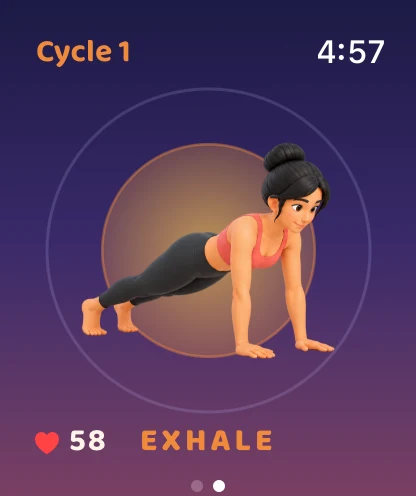
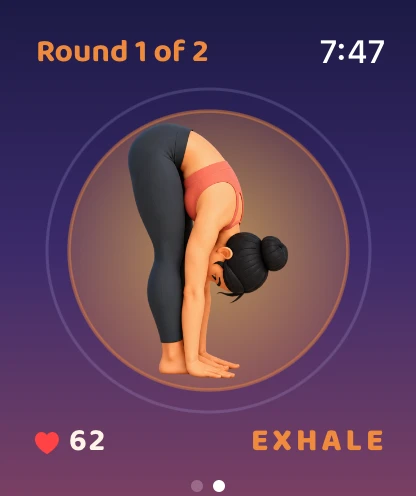
Watch card: fresh simulator screenshot of the practice screen
Claude-Session: https://claude.ai/code/session_01ShqDQatFqca7N7iU5mKqBC

diff --git a/index.html b/index.html
@@ -18,7 +18,7 @@
   <link rel="preconnect" href="https://fonts.googleapis.com">
   <link rel="preconnect" href="https://fonts.gstatic.com" crossorigin>
   <link href="https://fonts.googleapis.com/css2?family=Baloo+2:wght@500;600;700;800&family=Inter:wght@400;500;600;700&display=swap" rel="stylesheet">
-  <link rel="stylesheet" href="styles.css?v=20261114084317">
+  <link rel="stylesheet" href="styles.css?v=20261114084831">
 </head>
 <body>
 
@@ -160,7 +160,7 @@
           </div>
           <div class="watch">
             <div class="watch-crown"></div><div class="watch-btn"></div>
-            <div class="watch-screen"><img src="assets/watch-practice.webp" alt="Surya Flow on Apple Watch: Cycle 1, plank pose in the breathing circle, heart rate 58, Exhale" width="416" height="496" loading="lazy"></div>
+            <div class="watch-screen"><img src="assets/watch-practice.webp?v=2" alt="Surya Flow on Apple Watch: Round 1 of 2, forward bend in the breathing circle, heart rate 62, Exhale" width="416" height="496" loading="lazy"></div>
           </div>
         </article>
       </div>
@@ -241,6 +241,6 @@
   </div>
 </footer>
 
-<script src="script.js?v=20261114084317"></script>
+<script src="script.js?v=20261114084831"></script>
 </body>
 </html>

diff --git a/404.html b/404.html
@@ -12,7 +12,7 @@
   <link rel="preconnect" href="https://fonts.googleapis.com">
   <link rel="preconnect" href="https://fonts.gstatic.com" crossorigin>
   <link href="https://fonts.googleapis.com/css2?family=Baloo+2:wght@500;600;700;800&family=Inter:wght@400;500;600;700&display=swap" rel="stylesheet">
-  <link rel="stylesheet" href="styles.css?v=20261114084317">
+  <link rel="stylesheet" href="styles.css?v=20261114084831">
 </head>
 <body>
 <header class="nav" id="nav">
@@ -41,6 +41,6 @@
     </div>
   </div>
 </footer>
-<script src="script.js?v=20261114084317"></script>
+<script src="script.js?v=20261114084831"></script>
 </body>
 </html>

diff --git a/privacy.html b/privacy.html
@@ -12,7 +12,7 @@
   <link rel="preconnect" href="https://fonts.googleapis.com">
   <link rel="preconnect" href="https://fonts.gstatic.com" crossorigin>
   <link href="https://fonts.googleapis.com/css2?family=Baloo+2:wght@500;600;700;800&family=Inter:wght@400;500;600;700&display=swap" rel="stylesheet">
-  <link rel="stylesheet" href="styles.css?v=20261114084317">
+  <link rel="stylesheet" href="styles.css?v=20261114084831">
 </head>
 <body>
 <header class="nav" id="nav">
@@ -60,6 +60,6 @@
     </div>
   </div>
 </footer>
-<script src="script.js?v=20261114084317"></script>
+<script src="script.js?v=20261114084831"></script>
 </body>
 </html>
